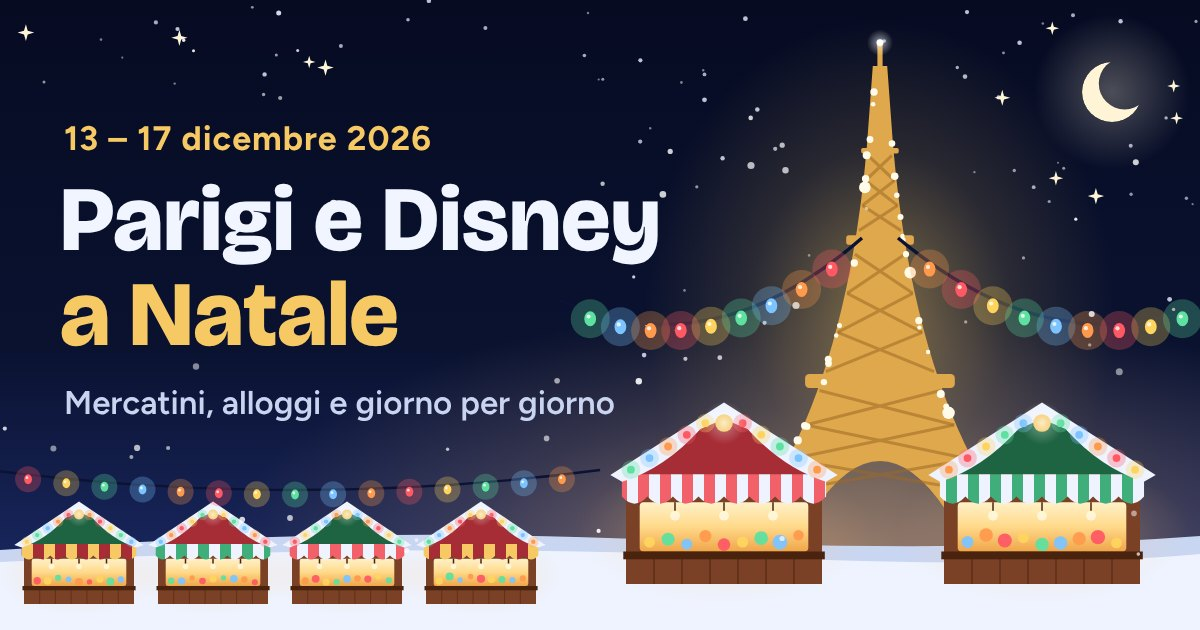
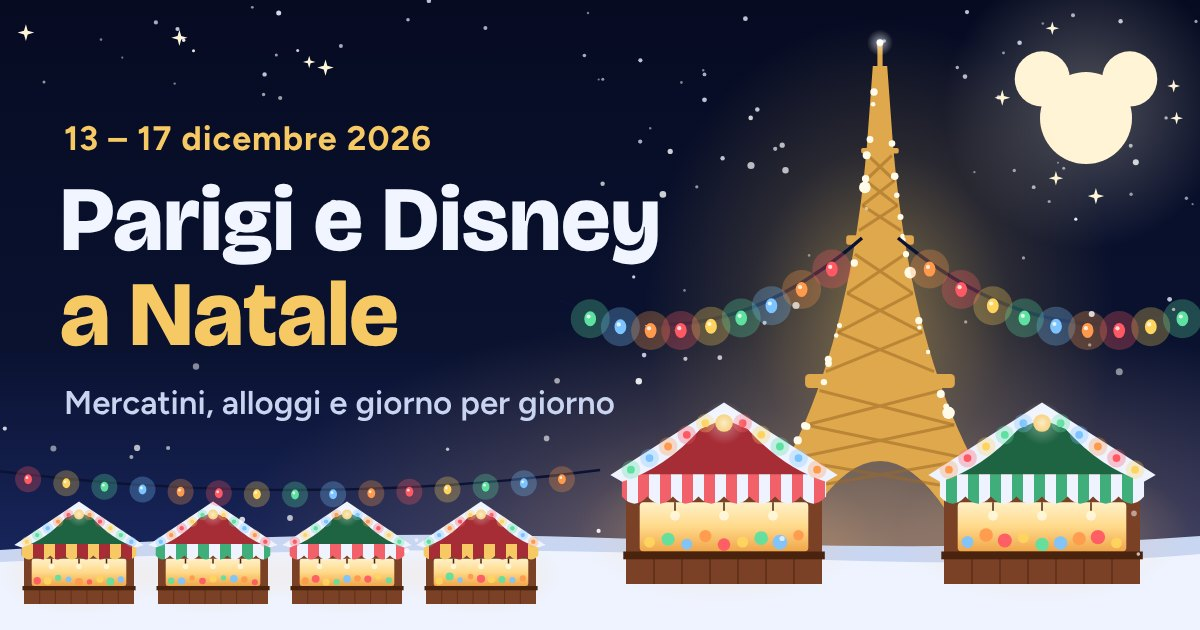
C4: luna a forma di Topolino in icona e anteprima; ?v= icone 3, anteprima 2; prova sulle versioni delle icone
Claude-Session: https://claude.ai/code/session_01WTjqUwUueBoLvRkqLpLRmU

Changed region(s): [[0.8017, 0.0, 0.9867, 0.3317]]

diff --git a/tools/fai-icone-dicembre.js b/tools/fai-icone-dicembre.js
@@ -1,6 +1,7 @@
 #!/usr/bin/env node
 /* Disegna l'icona della web app di dicembre e l'immagine dell'anteprima del link (WhatsApp, Telegram).
-   Parigi di notte coi mercatini di Natale: Torre Eiffel accesa, casette con le tende a righe, festoni di lucine, neve.
+   Parigi di notte coi mercatini di Natale: Torre Eiffel accesa, casette con le tende a righe, festoni di lucine, neve,
+   luna a forma di testa di Topolino.
    Tutto disegnato qui (niente immagini prese da internet): si rifà uguale quando serve.
    Uso:  node tools/fai-icone-dicembre.js            scrive dicembre/icona-*.png e dicembre/anteprima.jpg
          node tools/fai-icone-dicembre.js <cartella>  scrive le stesse immagini in un'altra cartella (prove)  */
@@ -65,12 +66,12 @@ function neveCade(x, y, l, a, n, seme) {
   return out;
 }
 
-let lune = 0;
+/* Luna a forma di testa di Topolino (chiesta da Mario il 21/11): tre cerchi pieni color luna, la testa e due
+   orecchie, con l'alone; niente faccia. (cx, cy) = centro della testa, r = raggio della testa. */
 function luna(cx, cy, r) {
-  const id = `falce${++lune}`;
-  return `<mask id="${id}" maskUnits="userSpaceOnUse" x="${cx - r * 2}" y="${cy - r * 2}" width="${r * 4}" height="${r * 4}"><circle cx="${cx}" cy="${cy}" r="${r}" fill="#fff"/><circle cx="${f(cx + r * .42)}" cy="${f(cy - r * .28)}" r="${f(r * .86)}" fill="#000"/></mask>
-  <circle cx="${cx}" cy="${cy}" r="${r * 2.6}" fill="url(#aloneLuna)" opacity=".7"/>
-  <circle cx="${cx}" cy="${cy}" r="${r}" fill="${C.luna}" mask="url(#${id})"/>`;
+  const o = r * 0.6, dx = r * 0.95, dy = r * 0.85;
+  return `<circle cx="${cx}" cy="${f(cy - r * .25)}" r="${f(r * 3.1)}" fill="url(#aloneLuna)" opacity=".75"/>
+  <g fill="${C.luna}"><circle cx="${cx}" cy="${cy}" r="${r}"/><circle cx="${f(cx - dx)}" cy="${f(cy - dy)}" r="${f(o)}"/><circle cx="${f(cx + dx)}" cy="${f(cy - dy)}" r="${f(o)}"/></g>`;
 }
 
 /* Torre Eiffel: base a terra in (cx, base), alta h, larga l alla base. */
@@ -191,7 +192,7 @@ function scenaIcona() {
   return `<rect x="-400" y="-400" width="1312" height="1312" fill="url(#cielo)"/>
   <ellipse cx="256" cy="420" rx="330" ry="190" fill="url(#orizzonte)"/>
   ${stelle(0, 0, 512, 250, 70, 11, (x, y) => Math.abs(x - cx) < 46 && y > 40)}
-  ${luna(100, 100, 24)}
+  ${luna(150, 138, 46)}
   ${torre(cx, 404, 346, 192)}
   ${festone(-14, 226, cx - 13, 190, 60, 9, 0, 6.2)}
   ${festone(cx + 13, 190, 526, 226, 60, 9, 2, 6.2)}
@@ -216,7 +217,7 @@ function svgAnteprima() {
   <rect width="1200" height="630" fill="url(#cielo)"/>
   <ellipse cx="840" cy="560" rx="620" ry="260" fill="url(#orizzonte)"/>
   ${stelle(0, 0, 1200, 360, 150, 5, (x, y) => (x < 640 && y > 90 && y < 470) || (Math.abs(x - cx) < 70 && y > 60))}
-  ${luna(1112, 92, 30)}
+  ${luna(1086, 118, 46)}
   ${torre(cx, 522, 470, 262)}
   ${festone(560, 300, cx - 18, 238, 70, 10, 1, 7.5)}
   ${festone(cx + 18, 238, 1214, 300, 70, 10, 3, 7.5)}

diff --git a/dicembre/index.html b/dicembre/index.html
@@ -16,15 +16,15 @@
 <meta property="og:url" content="https://kur0chanx.github.io/parigi-in-tasca/dicembre/">
 <meta property="og:site_name" content="Parigi in tasca">
 <meta property="og:locale" content="it_IT">
-<meta property="og:image" content="https://kur0chanx.github.io/parigi-in-tasca/dicembre/anteprima.jpg?v=1">
+<meta property="og:image" content="https://kur0chanx.github.io/parigi-in-tasca/dicembre/anteprima.jpg?v=2">
 <meta property="og:image:type" content="image/jpeg">
 <meta property="og:image:width" content="1200">
 <meta property="og:image:height" content="630">
-<meta property="og:image:alt" content="Parigi di notte coi mercatini di Natale e la Torre Eiffel accesa: «Parigi e Disney a Natale, 13–17 dicembre 2026»">
+<meta property="og:image:alt" content="Parigi di notte coi mercatini di Natale, la Torre Eiffel accesa e la luna a forma di Topolino: «Parigi e Disney a Natale, 13–17 dicembre 2026»">
 <meta name="twitter:card" content="summary_large_image">
 <link rel="manifest" href="manifest.webmanifest">
-<link rel="icon" type="image/png" sizes="192x192" href="icona-192.png?v=2">
-<link rel="apple-touch-icon" href="icona-180.png?v=2">
+<link rel="icon" type="image/png" sizes="192x192" href="icona-192.png?v=3">
+<link rel="apple-touch-icon" href="icona-180.png?v=3">
 <title>Parigi e Disney a Natale</title>
 <script>try{if(localStorage.getItem('palette')==='vino')document.documentElement.dataset.palette='vino'}catch(e){}</script>
 <meta name="claude:viewport-fit-sides" content="cover">

diff --git a/tools/prova-web-app.js b/tools/prova-web-app.js
@@ -57,6 +57,13 @@ const sw = (p) => p.waitForFunction(() => navigator.serviceWorker.controller, nu
     return out;
   });
   ok('amico: icone giuste (' + Object.keys(icone).length + ')', Object.values(icone).every(Boolean)); if (!Object.values(icone).every(Boolean)) console.log(icone);
+  // Icone cambiate → ?v= alzato in tutti e due i posti (pagina e manifest), sennò il telefono tiene l'icona vecchia
+  const versioni = await q.evaluate(async () => {
+    const v = (src) => (String(src).match(/\?v=(\d+)/) || [])[1] || 'manca';
+    const m = await (await fetch('manifest.webmanifest')).json();
+    return [...[...document.querySelectorAll('link[rel=icon],link[rel=apple-touch-icon]')].map((l) => v(l.getAttribute('href'))), ...m.icons.map((ic) => v(ic.src))];
+  });
+  ok('icone: stesso ?v= nella pagina e nel manifest (' + versioni[0] + ')', versioni.length === 5 && versioni[0] !== 'manca' && new Set(versioni).size === 1); if (new Set(versioni).size !== 1) console.log(versioni);
   const og = await q.evaluate(() => Object.fromEntries([...document.querySelectorAll('meta[property^="og:"],meta[name="twitter:card"]')].map((m) => [m.getAttribute('property') || m.name, m.content])));
   ok('anteprima: titolo, descrizione e indirizzo pieni', !!(og['og:title'] && og['og:description'] && og['og:url'] === 'https://kur0chanx.github.io/parigi-in-tasca/dicembre/'));
   ok('anteprima: descrizione ≤ 80 lettere', og['og:description'].length <= 80);

diff --git a/tools/fai-dicembre.py b/tools/fai-dicembre.py
@@ -32,15 +32,15 @@ TESTA = """<!doctype html>
 <meta property="og:url" content="https://kur0chanx.github.io/parigi-in-tasca/dicembre/">
 <meta property="og:site_name" content="Parigi in tasca">
 <meta property="og:locale" content="it_IT">
-<meta property="og:image" content="https://kur0chanx.github.io/parigi-in-tasca/dicembre/anteprima.jpg?v=1">
+<meta property="og:image" content="https://kur0chanx.github.io/parigi-in-tasca/dicembre/anteprima.jpg?v=2">
 <meta property="og:image:type" content="image/jpeg">
 <meta property="og:image:width" content="1200">
 <meta property="og:image:height" content="630">
-<meta property="og:image:alt" content="Parigi di notte coi mercatini di Natale e la Torre Eiffel accesa: «Parigi e Disney a Natale, 13–17 dicembre 2026»">
+<meta property="og:image:alt" content="Parigi di notte coi mercatini di Natale, la Torre Eiffel accesa e la luna a forma di Topolino: «Parigi e Disney a Natale, 13–17 dicembre 2026»">
 <meta name="twitter:card" content="summary_large_image">
 <link rel="manifest" href="manifest.webmanifest">
-<link rel="icon" type="image/png" sizes="192x192" href="icona-192.png?v=2">
-<link rel="apple-touch-icon" href="icona-180.png?v=2">
+<link rel="icon" type="image/png" sizes="192x192" href="icona-192.png?v=3">
+<link rel="apple-touch-icon" href="icona-180.png?v=3">
 """
 
 CODA = """

diff --git a/docs/lavori-in-corso/C4-icona-anteprima-21-11.md b/docs/lavori-in-corso/C4-icona-anteprima-21-11.md
@@ -17,3 +17,4 @@ Certo che come icona potevi fare tipo um, Parigi piena di mercatini di Natale, f
 - Scartati dal controllo: «n. 13 circa 100 € in meno» (vero: circa 60 € a parità di tariffa); «Queen Room» col prezzo (non c'è negli appunti: da leggere nell'app); meteo e code alle Tuileries (non negli appunti).
 - Pubblico tutto insieme (icona, anteprima, correzioni) quando Mario dà l'ok all'icona: un giro solo.
 - Mario 21/11 18:03 (alla #9 chiusa): «aggiungi anche topolino di Disney a forma di luna nello sfondo nell'icona e immagine / e poi publica» → luna a forma di Topolino in icona e anteprima, poi pubblicare (lo fa la #10).
+- #10 (21/11 ~18:20): luna = testa di Topolino (3 cerchi pieni, niente faccia) in `luna()` di `tools/fai-icone-dicembre.js`; nell'icona più grande della luna di prima e più verso il centro, così si legge a 60 px e resta dentro il ritaglio a cerchio di Android (icona «protetta»). `?v=`: icone 3, anteprima 2. Prova nuova: stesso `?v=` delle icone nella pagina e nel manifest (provata anche rotta). Parere detto a Mario: la testa di Topolino è un marchio Disney; pagina privata, non commerciale e `noindex` → rischio basso.

diff --git a/docs/CHI-FA-COSA.md b/docs/CHI-FA-COSA.md
@@ -5,9 +5,9 @@ Catene di sessioni e lavori in corso di ogni chat (skill `chat-parallela`). Prim
 ## Catene
 | Catena | Forma | Segni | Numero | Sessione | Chiusa il |
 |---|---|---|---|---|---|
-| Principale | cerchi | 🟢 🟡 🔴 ⚫ | 9 | session_01WTjqUvsd71kLUH9Y77mC59 | — |
+| Principale | cerchi | 🟢 🟡 🔴 ⚫ | 10 | session_01WTjqUwUueBoLvRkqLpLRmU | — |
 
 ## Lavori in corso
 | Codice | Chat | Cosa | File principali | Dal |
 |---|---|---|---|---|
-| C4 | Principale 9 | Icona coi mercatini, anteprima del link (WhatsApp, Telegram), controllo della web app | `tools/fai-dicembre.py`, `dicembre/`, `docs/lavori-in-corso/C4-icona-anteprima-21-11.md` | 21/11 |
+| C4 | Principale 10 | Icona coi mercatini e luna a forma di Topolino, anteprima del link (WhatsApp, Telegram), pubblicazione | `tools/fai-dicembre.py`, `dicembre/`, `docs/lavori-in-corso/C4-icona-anteprima-21-11.md` | 21/11 |

diff --git a/docs/ULTIMO-MESSAGGIO.md b/docs/ULTIMO-MESSAGGIO.md
@@ -1,5 +1,4 @@
-# Ultimo messaggio di Mario (21/11/2026 17:46 ora italiana)
+# Ultimo messaggio di Mario (21/11/2026 18:03 ora italiana)
 
-Sì, questa app conta che ci serve principalmente per i mercatini di Natale e per scegliere il miglior hotel in base agli spostamenti, il prezzo, comodità, eccetera, i servizi.
-Per quello dobbiamo ancora scegliere l'hotel, perché ci stai aiutando tu. Guarda se è tutto perfetto per aiutarci e basta.
-Certo che come icona potevi fare tipo um, Parigi piena di mercatini di Natale, fatto bene, pieno di luci, di decorazioni, potevi farla così l'icona. E metti anche l'immagine se la invio su Telegram e su WhatsApp, allegato al link.
+aggiungi anche topolino di Disney a forma di luna nello sfondo nell'icona e immagine 
+e poi publica
